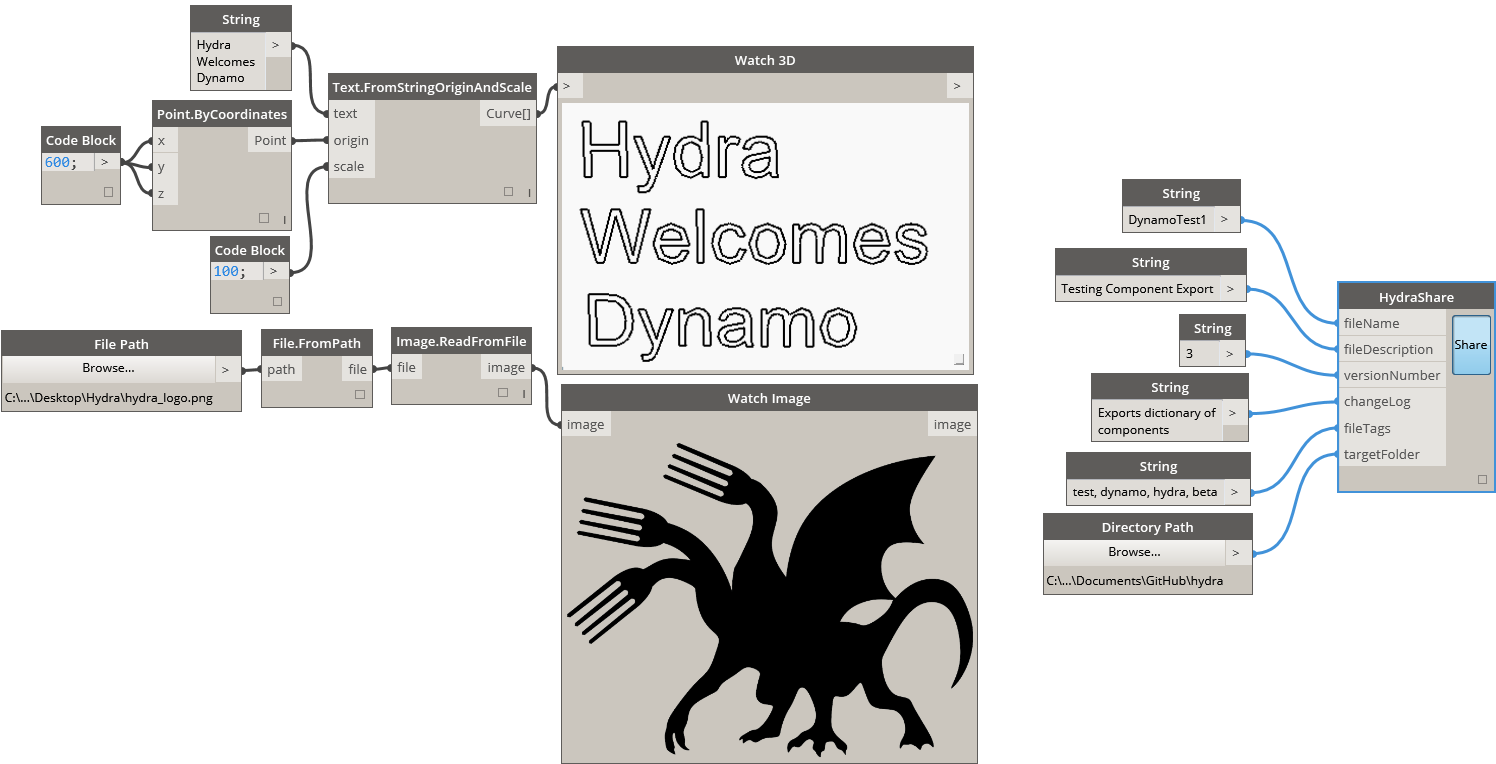
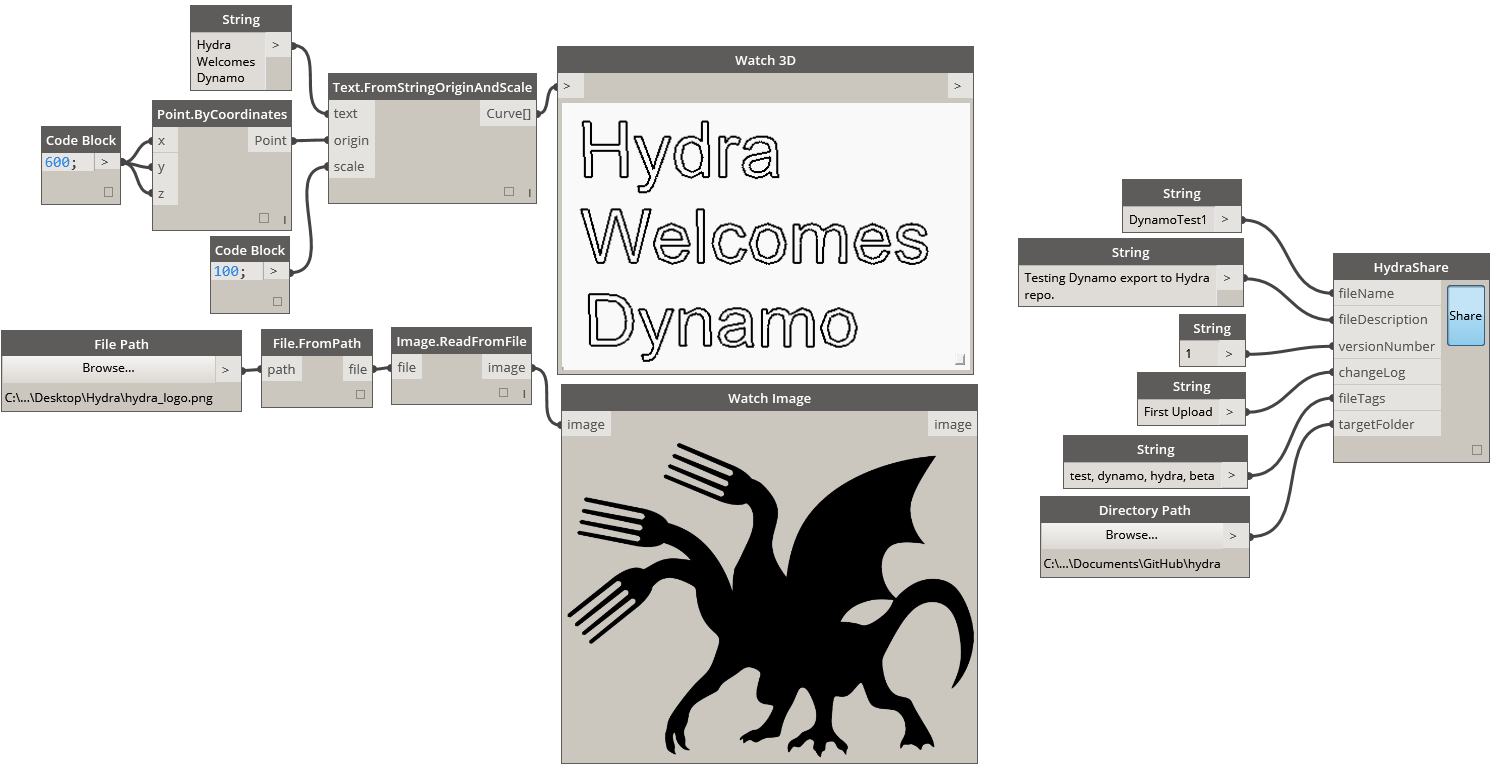
new

diff --git a/DynamoTest1/README.md b/DynamoTest1/README.md
@@ -1,6 +1,6 @@
 ### Description
-Testing Component Export
+Testing Dynamo export to Hydra repo.
 ### Version
-File Version: 3
+File Version: 1
 ### Tags
 test,dynamo,hydra,beta
